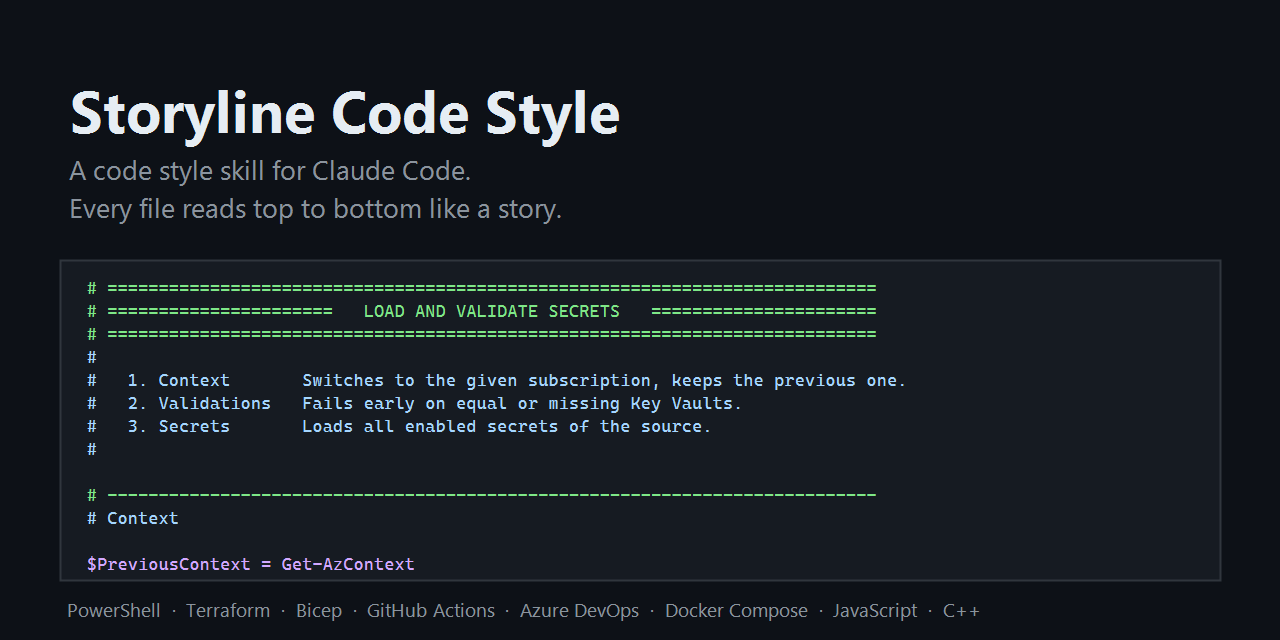
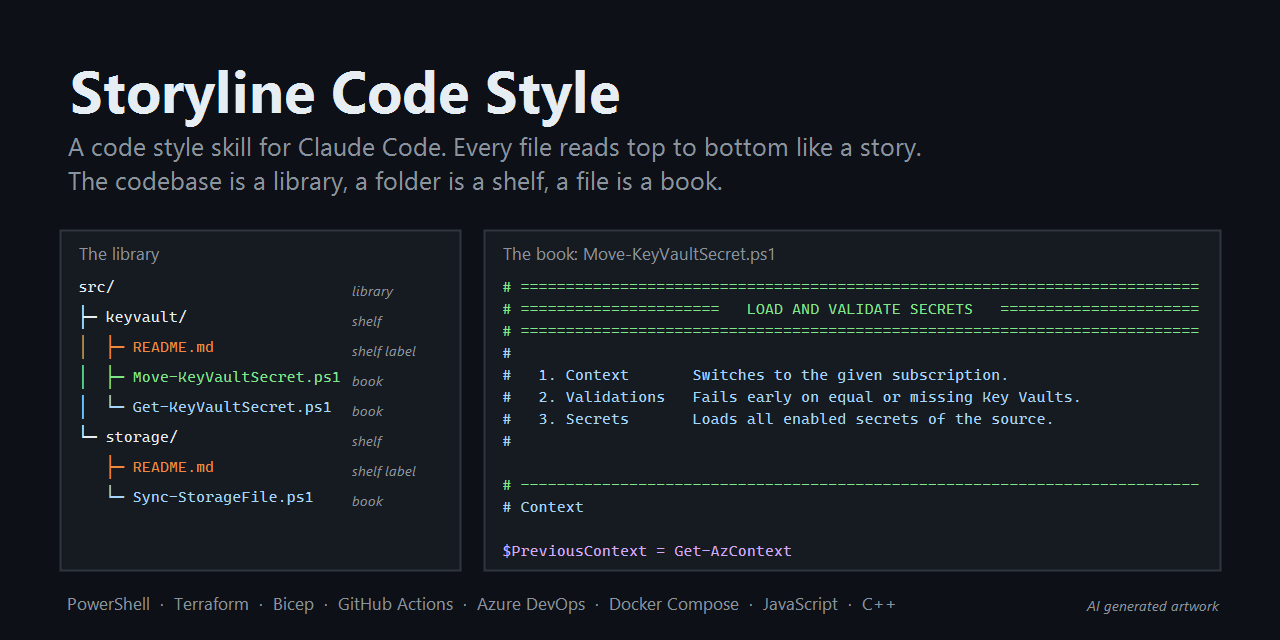
Rework social preview with library and book, embed it in the README
- Left panel: the library as a folder tree with shelf, shelf label and books
- Right panel: the open book with a chapter banner
- "AI generated artwork" notice in the footer
- README shows the image below the tagline

diff --git a/README.md b/README.md
@@ -2,6 +2,8 @@
 
 A code style skill for [Claude Code](https://claude.com/claude-code): every file reads top to bottom like a story.
 
+![Storyline Code Style: the codebase is a library, a folder is a shelf, a file is a book](.github/social-preview.png)
+
 File headers say how to call the file, chapter and section banners structure it, guard clauses keep the main path flat,
 data is transformed in named stages, and logs leave a narrative trail at every decision point.
 
